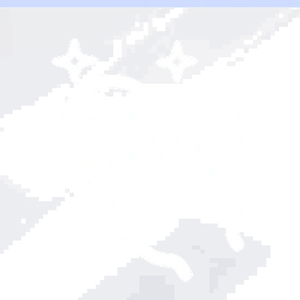
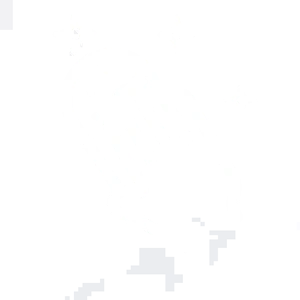
Servicios: sin barra de scroll en las tarjetas de ¿Qué incluye?
En escritorio las tarjetas van en cuadrícula sin overflow (el hover ya no
genera scroll); en móvil se deslizan sin barra visible. También se limpia
una línea que traía el ícono de limpieza.

Claude-Session: https://claude.ai/code/session_01MvpHuhXqVjyEnpZvfU29PZ

diff --git a/final-paginas.html b/final-paginas.html
@@ -214,7 +214,10 @@ footer{padding-bottom:calc(110px + env(safe-area-inset-bottom,0px))}
 .sv-inc .cols{display:grid;gap:4px 60px;margin:22px 0 26px;font:600 clamp(17px,1.6vw,20px)/1.3 var(--cond);letter-spacing:.01em}
 @media (min-width:800px){.sv-inc .cols{grid-template-columns:auto auto;justify-content:center}}
 .sv-inc .cols ul{margin:0;padding-left:16px;display:grid;gap:4px;list-style:square}
-.icards{list-style:none;margin:0;padding:0 0 6px;display:grid;grid-auto-flow:column;grid-auto-columns:minmax(150px,1fr);gap:14px;overflow-x:auto;scroll-snap-type:x mandatory}
+.icards{list-style:none;margin:0 -16px;padding:10px 16px 6px;display:grid;grid-auto-flow:column;grid-auto-columns:minmax(150px,1fr);gap:14px;overflow-x:auto;scroll-snap-type:x mandatory;scroll-padding-inline:16px;scrollbar-width:none}
+.icards::-webkit-scrollbar{display:none}
+/* En escritorio caben todas las tarjetas: sin scroll (el hover las levanta sin cortarse) */
+@media (min-width:900px){.icards{margin:0;padding:10px 0 6px;grid-auto-flow:row;grid-template-columns:repeat(auto-fit,minmax(130px,1fr));overflow:visible}}
 .icards li{scroll-snap-align:start;display:grid;justify-items:center;align-content:start;gap:14px;padding:18px 12px 20px;border-radius:24px;background:rgba(21,33,73,.86);text-align:center;font:600 clamp(16px,1.5vw,19px)/1.2 var(--cond)}
 .icards img{height:62px;width:auto}
 .sv-campo .wrap{padding-block:56px 72px}

diff --git a/herramientas/generar-paginas.py b/herramientas/generar-paginas.py
@@ -237,7 +237,10 @@ footer{padding-bottom:calc(110px + env(safe-area-inset-bottom,0px))}
 .sv-inc .cols{display:grid;gap:4px 60px;margin:22px 0 26px;font:600 clamp(17px,1.6vw,20px)/1.3 var(--cond);letter-spacing:.01em}
 @media (min-width:800px){.sv-inc .cols{grid-template-columns:auto auto;justify-content:center}}
 .sv-inc .cols ul{margin:0;padding-left:16px;display:grid;gap:4px;list-style:square}
-.icards{list-style:none;margin:0;padding:0 0 6px;display:grid;grid-auto-flow:column;grid-auto-columns:minmax(150px,1fr);gap:14px;overflow-x:auto;scroll-snap-type:x mandatory}
+.icards{list-style:none;margin:0 -16px;padding:10px 16px 6px;display:grid;grid-auto-flow:column;grid-auto-columns:minmax(150px,1fr);gap:14px;overflow-x:auto;scroll-snap-type:x mandatory;scroll-padding-inline:16px;scrollbar-width:none}
+.icards::-webkit-scrollbar{display:none}
+/* En escritorio caben todas las tarjetas: sin scroll (el hover las levanta sin cortarse) */
+@media (min-width:900px){.icards{margin:0;padding:10px 0 6px;grid-auto-flow:row;grid-template-columns:repeat(auto-fit,minmax(130px,1fr));overflow:visible}}
 .icards li{scroll-snap-align:start;display:grid;justify-items:center;align-content:start;gap:14px;padding:18px 12px 20px;border-radius:24px;background:rgba(21,33,73,.86);text-align:center;font:600 clamp(16px,1.5vw,19px)/1.2 var(--cond)}
 .icards img{height:62px;width:auto}
 .sv-campo .wrap{padding-block:56px 72px}
